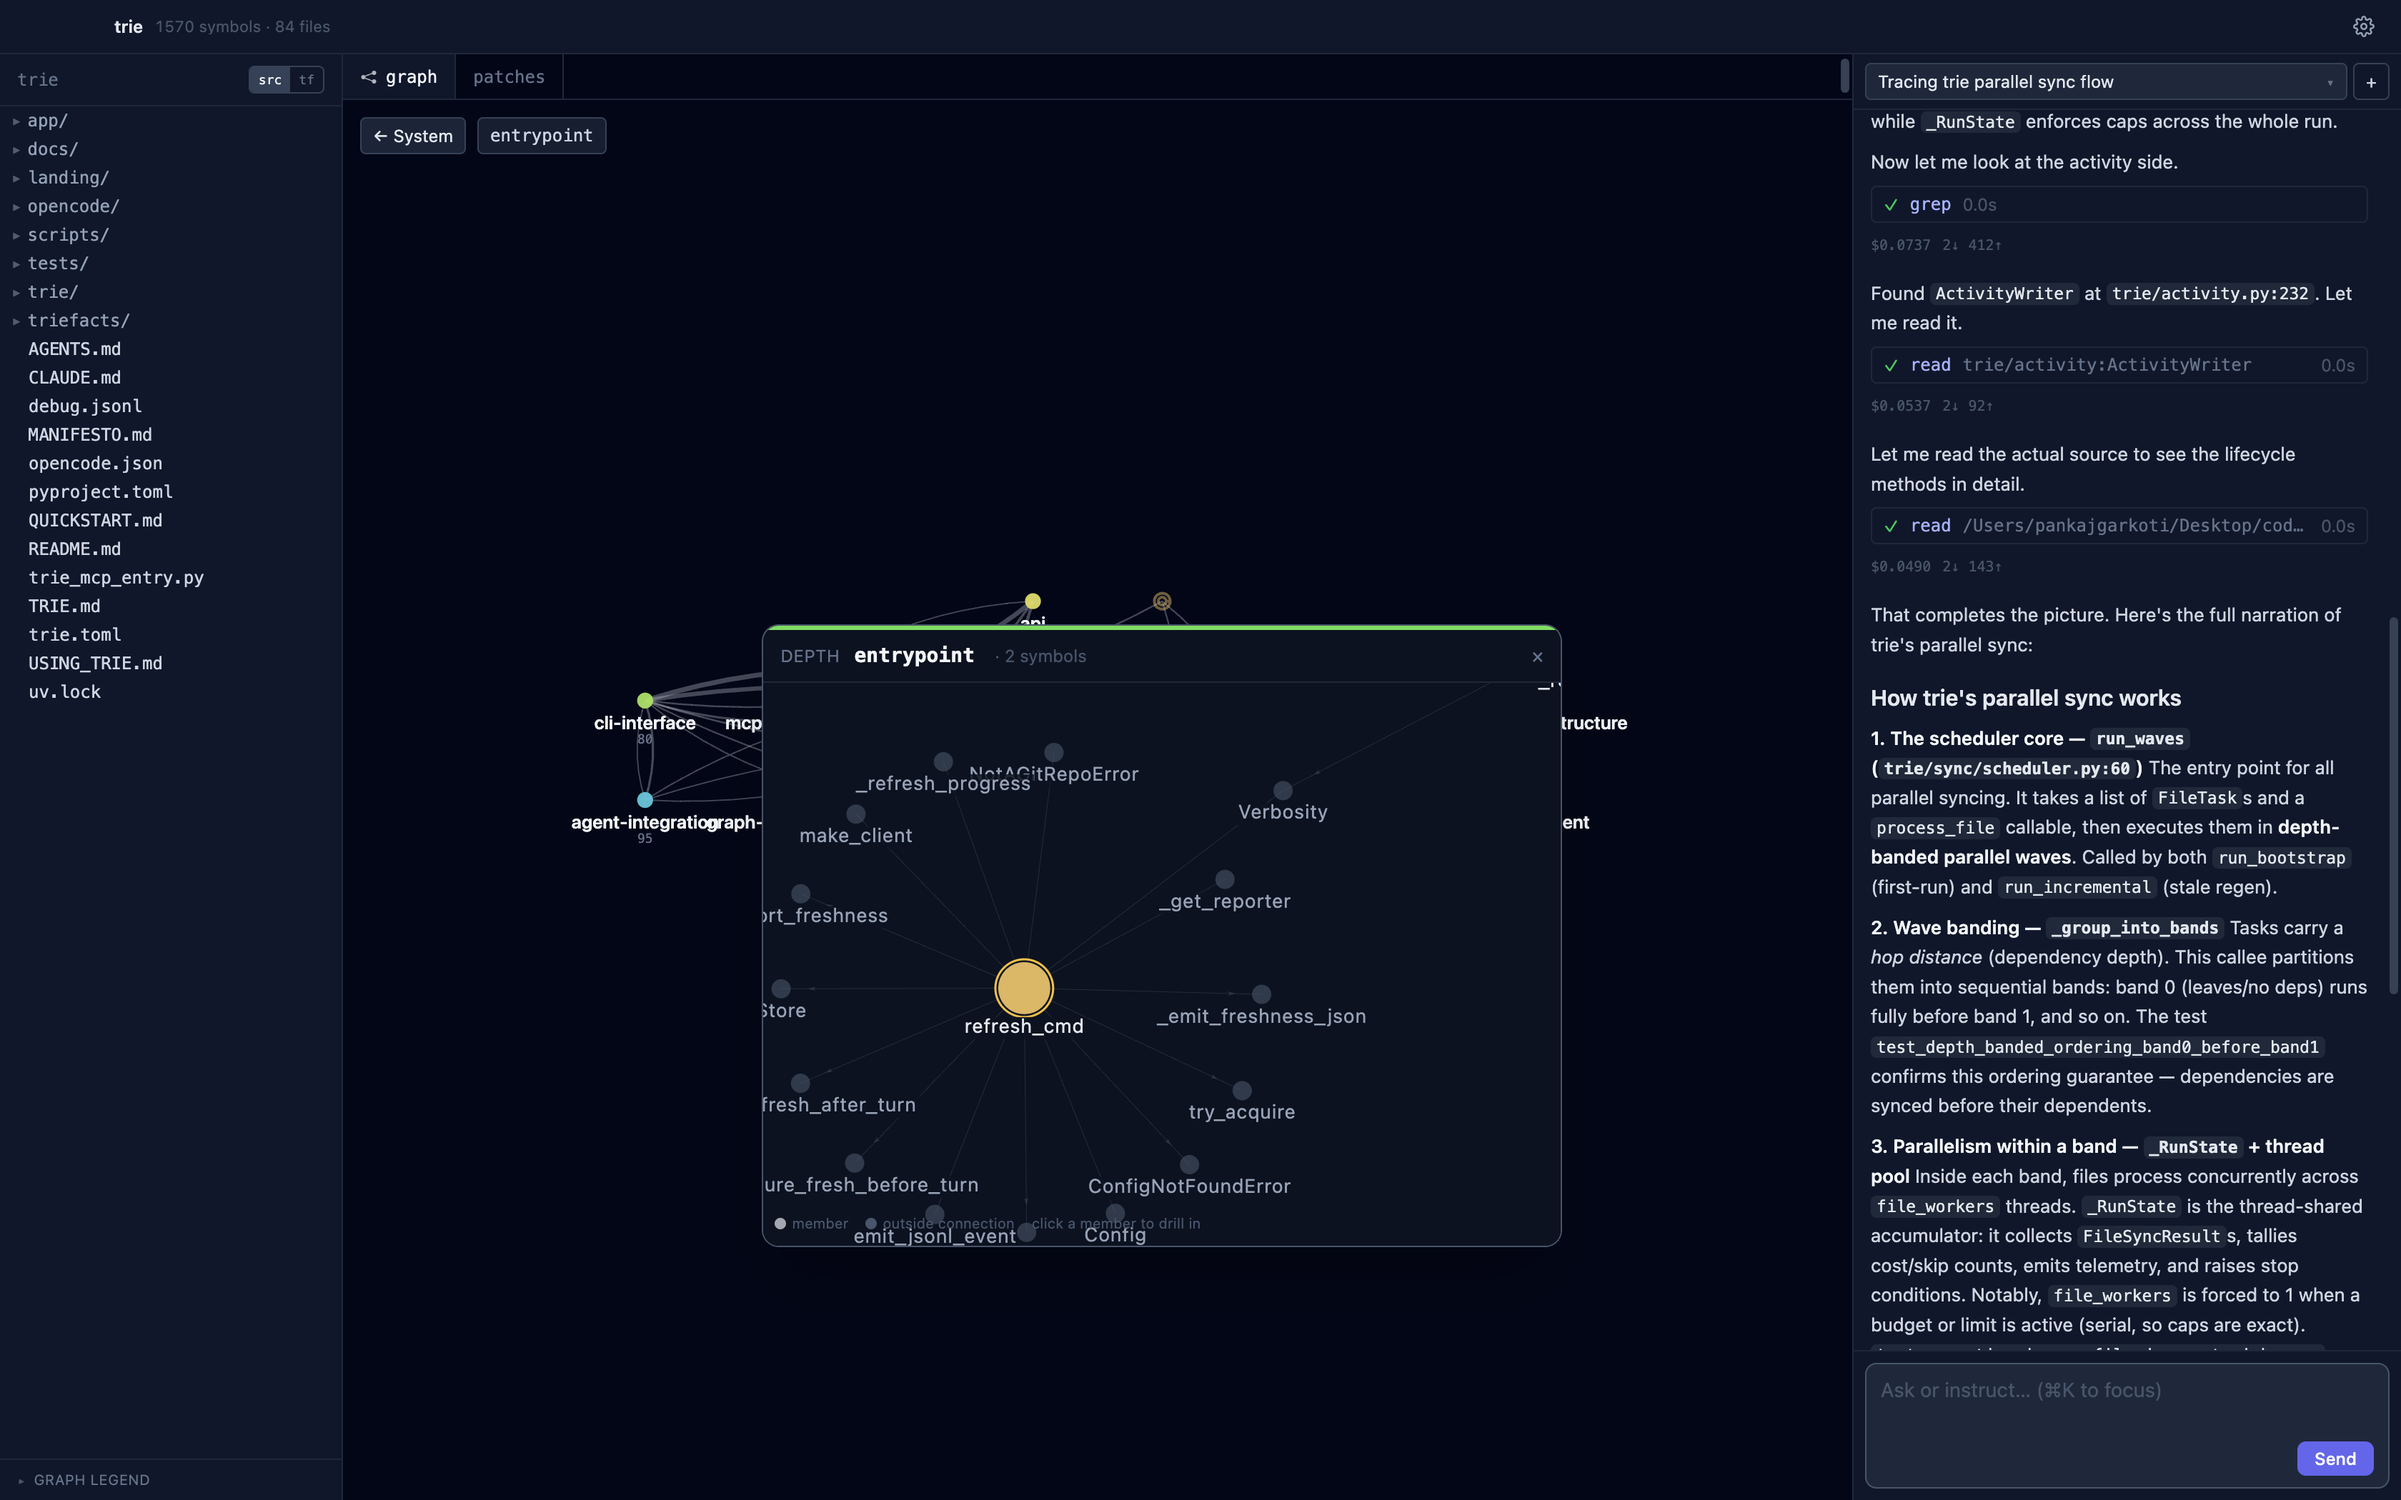
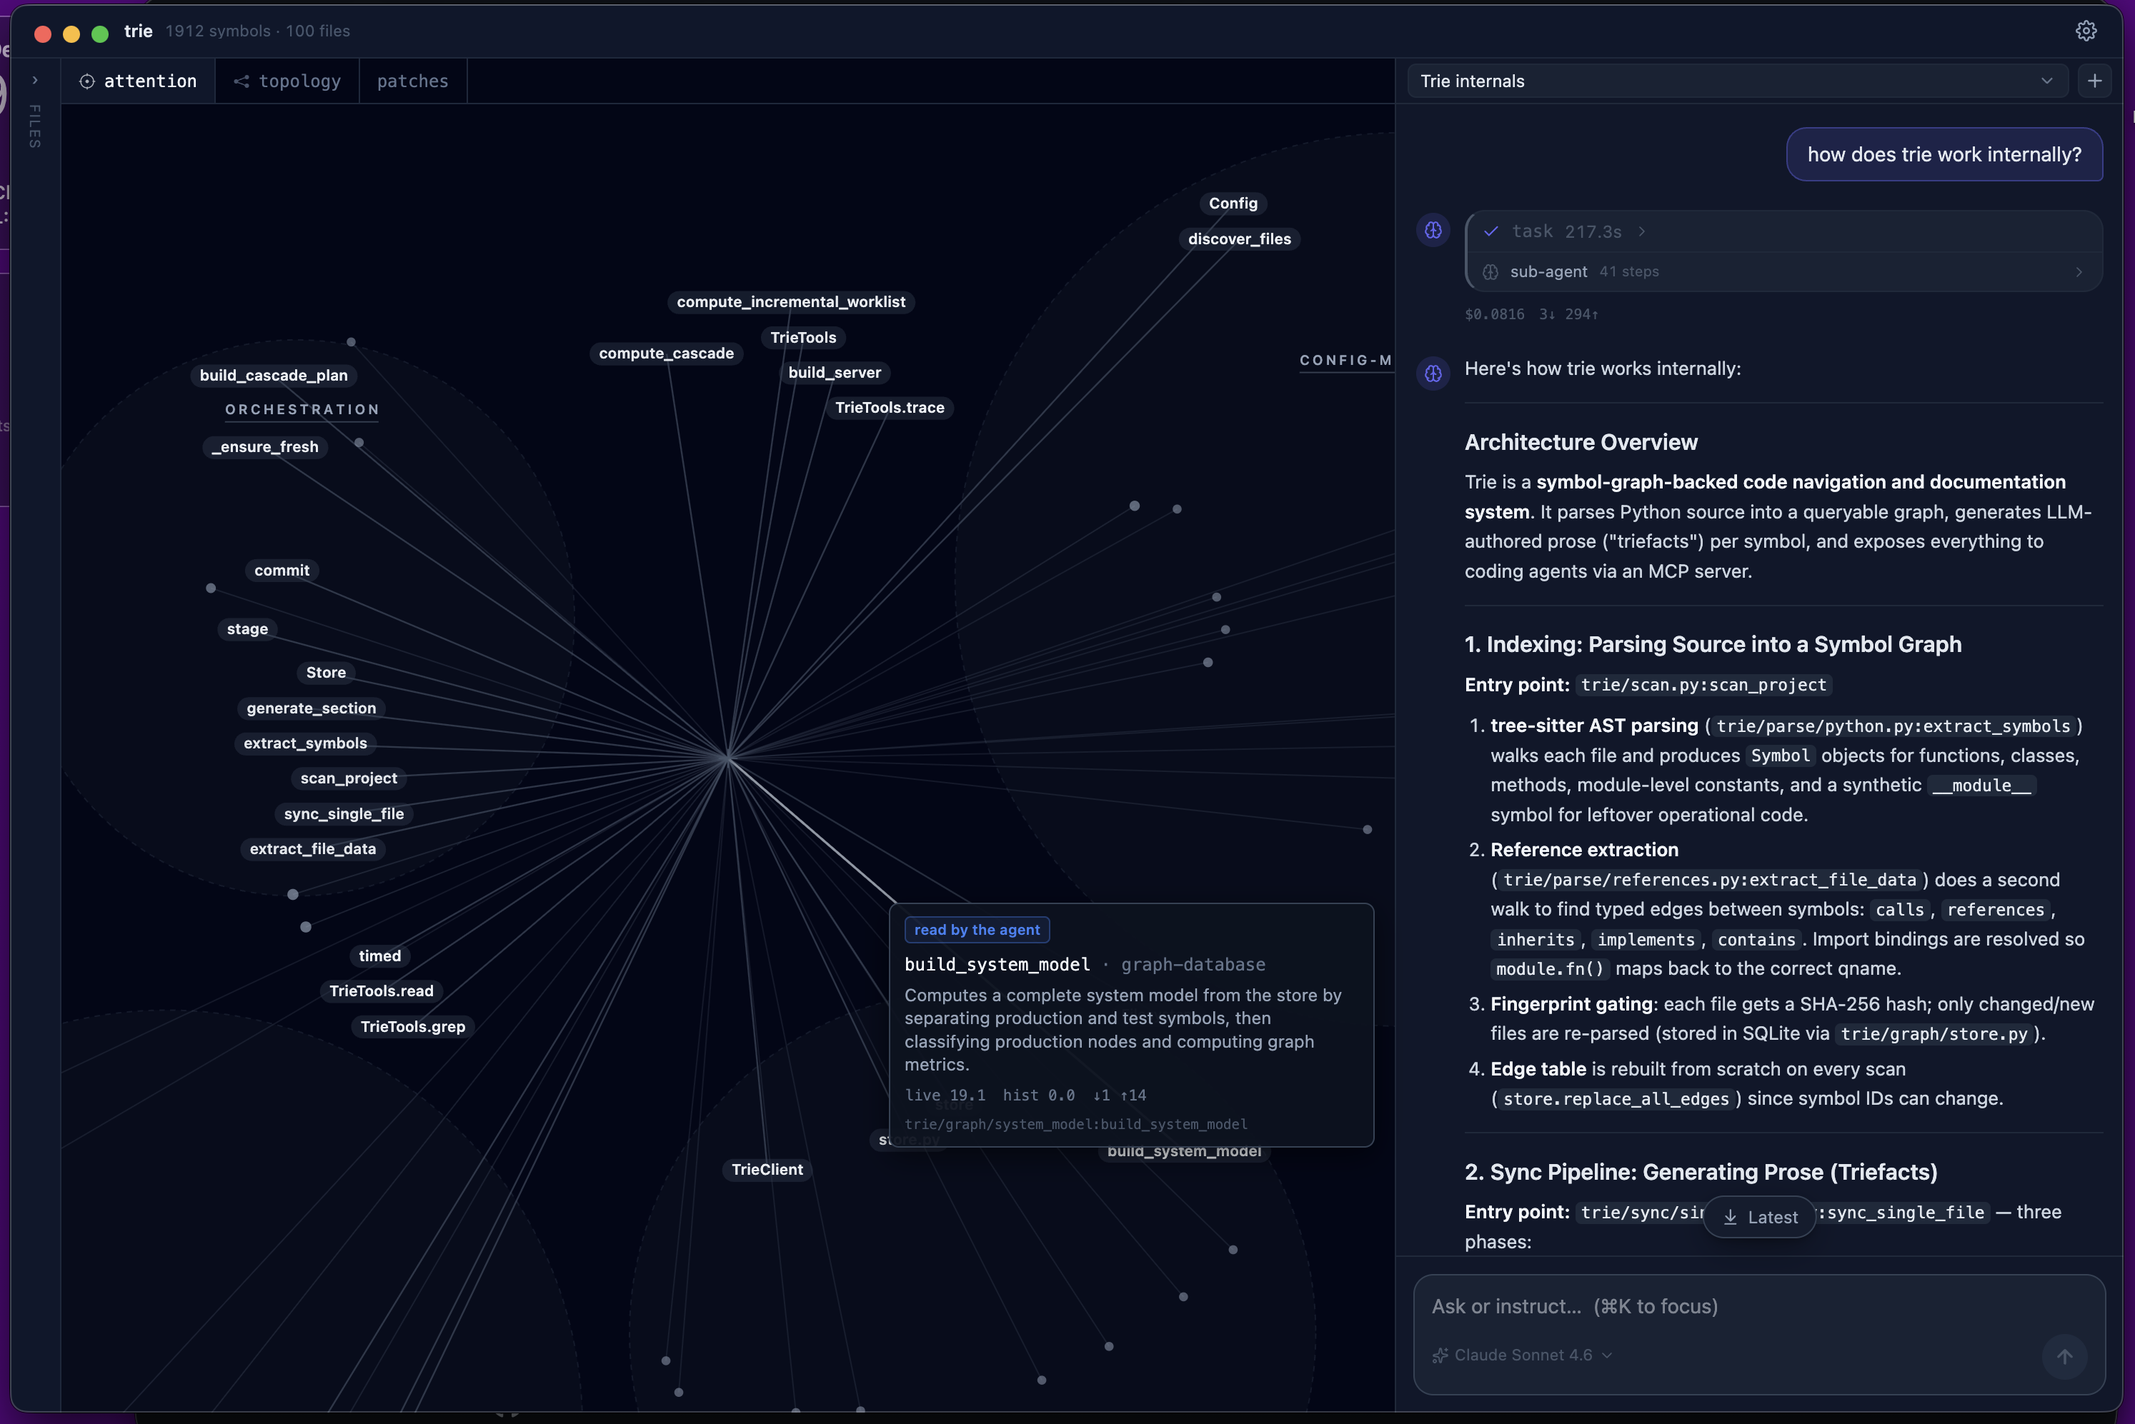
chore(release): bump version to 0.1.9; refresh README screenshot
- Bump 0.1.5 -> 0.1.9 across pyproject, trie/__init__, config default +
  DEFAULT_CONFIG_TOML, test_config assertions, and uv.lock.
- Replace the README desktop screenshot with the current attention-view
  build (AGM cognitive map + agent prose card + multi-session chat).

diff --git a/tests/test_config.py b/tests/test_config.py
@@ -9,7 +9,7 @@ from trie.config import DEFAULT_CONFIG_TOML, Config, ConfigNotFoundError
 
 def test_defaults_when_empty_dict():
     cfg = Config.from_dict({})
-    assert cfg.trie.version == "0.1.5"
+    assert cfg.trie.version == "0.1.9"
     assert "**/*.py" in cfg.scope.include
     assert cfg.triefacts.root == "triefacts"
     assert cfg.models.bootstrap.startswith("anthropic/")
@@ -38,7 +38,7 @@ def test_load_roundtrips_default_template(tmp_path: Path):
     config_file = tmp_path / "trie.toml"
     config_file.write_text(DEFAULT_CONFIG_TOML)
     cfg = Config.load(config_file)
-    assert cfg.trie.version == "0.1.5"
+    assert cfg.trie.version == "0.1.9"
     assert cfg.triefacts.root == "triefacts"
 
 

diff --git a/trie/config.py b/trie/config.py
@@ -7,7 +7,7 @@ from pathlib import Path
 
 @dataclass
 class TrieMeta:
-    version: str = "0.1.5"
+    version: str = "0.1.9"
 
 
 @dataclass
@@ -296,7 +296,7 @@ DEFAULT_CONFIG_TOML = """\
 # trie configuration — see https://github.com/pankajgarkoti/trie
 
 [trie]
-version = "0.1.5"
+version = "0.1.9"
 
 [scope]
 # Glob patterns relative to the project root (the directory containing this file).

diff --git a/trie/__init__.py b/trie/__init__.py
@@ -1,1 +1,1 @@
-__version__ = "0.1.5"
+__version__ = "0.1.9"
